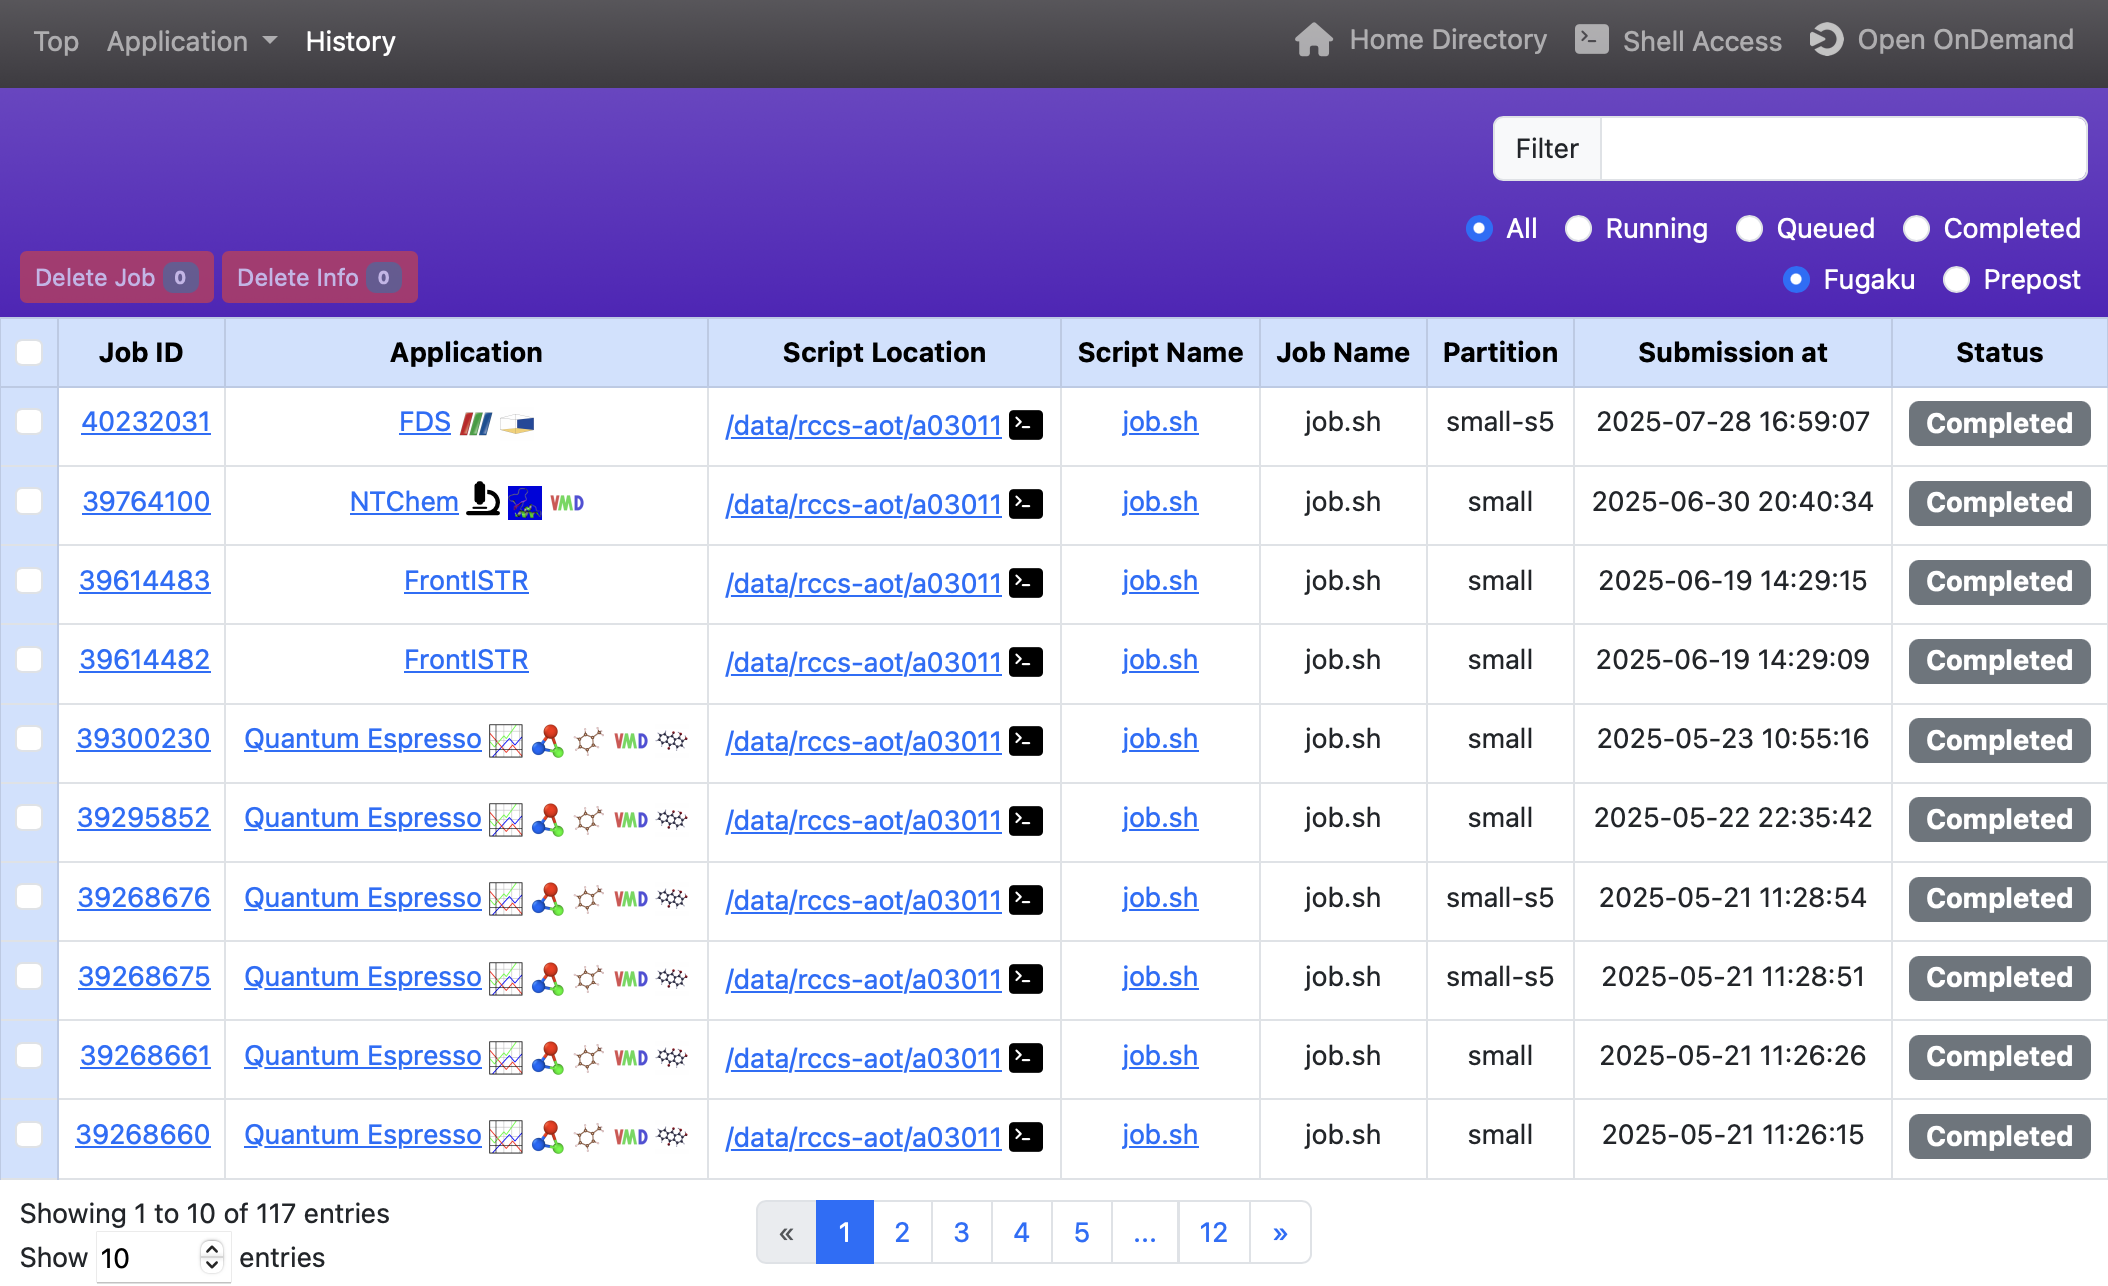
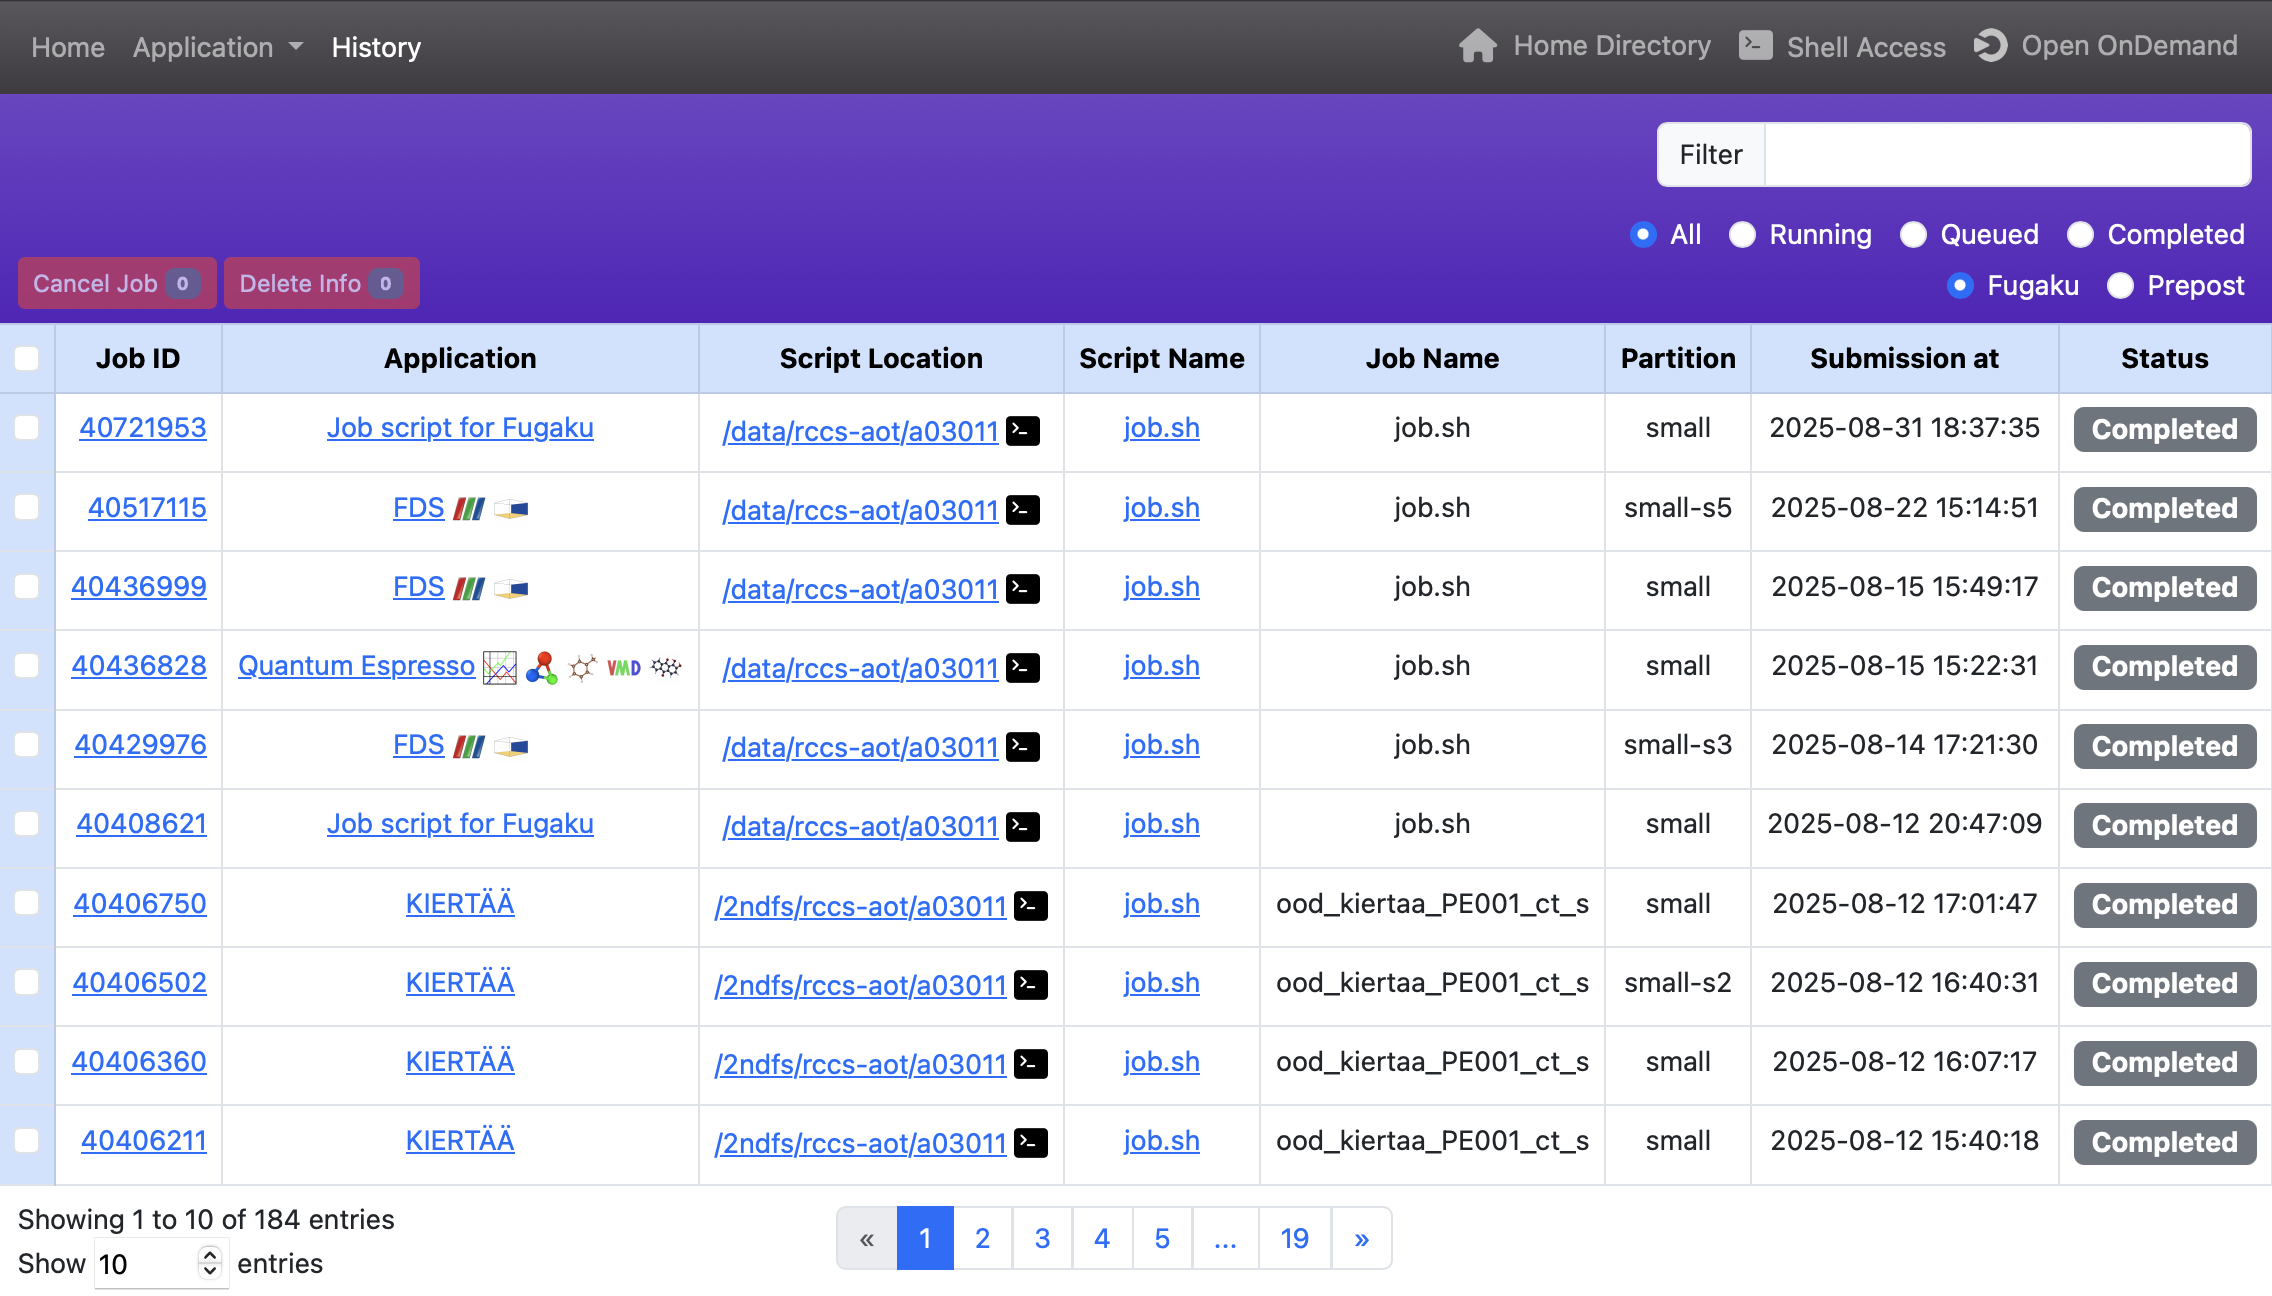
minor fix

diff --git a/docs/batch.html b/docs/batch.html
@@ -66,7 +66,7 @@
         On the History page, you can view past job submissions. Each row in the table represents one job entry.
       </p>
       <p>
-        The "Delete Job" and "Delete Info" buttons at the top-left are used to delete a running job or delete a job entry from the table, respectively. To use these buttons, check the checkbox in the leftmost column of the job row.
+        The "Cancel Job" and "Delete Info" buttons at the top-left are used to cancel a running job or delete a job entry from the table, respectively. To use these buttons, check the checkbox in the leftmost column of the job row.
       </p>
       <p>
         The text input and radio buttons at the top-right are used to filter jobs shown in the table. Entering text in the "Filter" field narrows the list to jobs that include that text. The "All", "Running", "Queued", and "Completed" radio buttons filter by job status. The "Fugaku" and "Prepost" radio buttons filter jobs by system.

diff --git a/docs/batch_ja.html b/docs/batch_ja.html
@@ -65,7 +65,7 @@
       History pageでは、これまでに投入したジョブの履歴を閲覧することができます。表の各行は1つのジョブの情報を示しています。
       </p>
       <p>
-      左上にある「Delete Job」と「Delete Info」のボタンは、それぞれ「実行中のジョブのキャンセル」と「表からジョブの情報を削除する」ことを行います。
+      左上にある「Cancel Job」と「Delete Info」のボタンは、それぞれ「実行中のジョブのキャンセル」と「表からジョブの情報を削除する」ことを行います。
       それらの動作を行うためには、表の左端の列にある対応するチェックボックスをオンにする必要があります。
       </p>
       <p>
